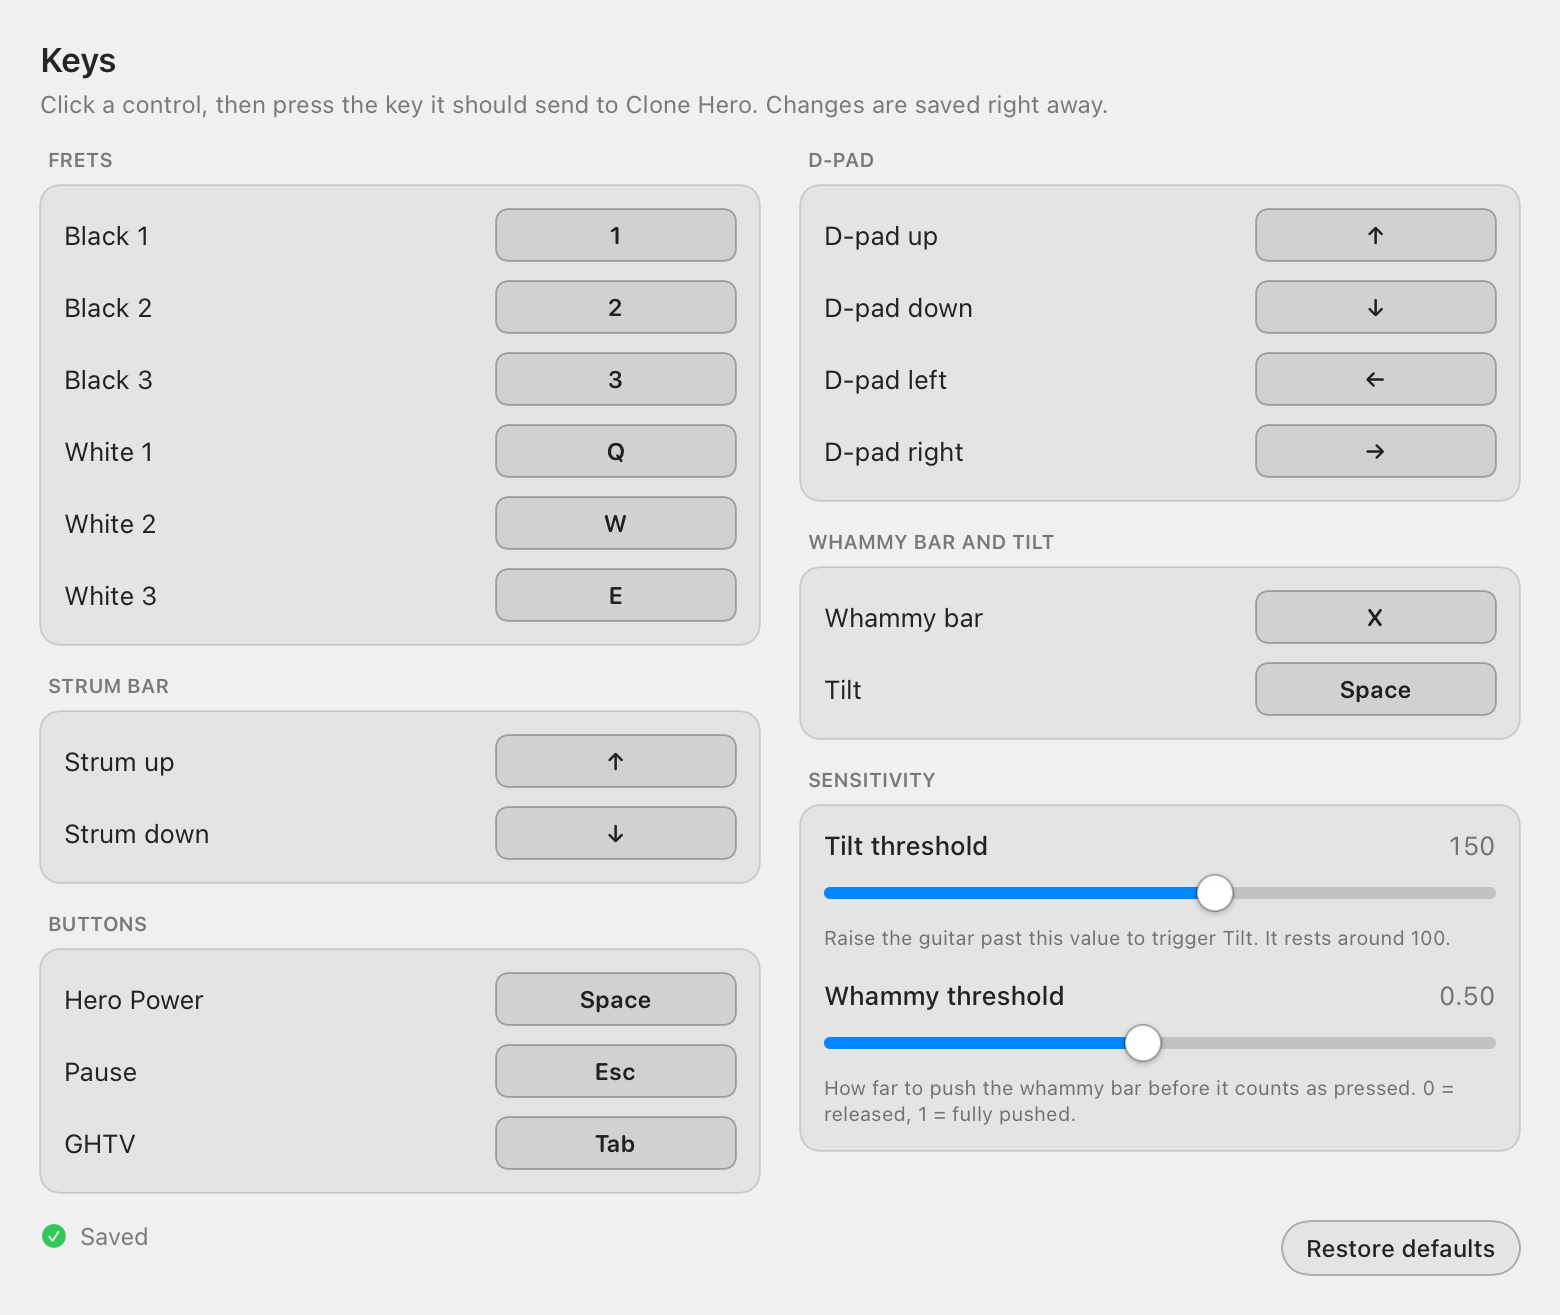
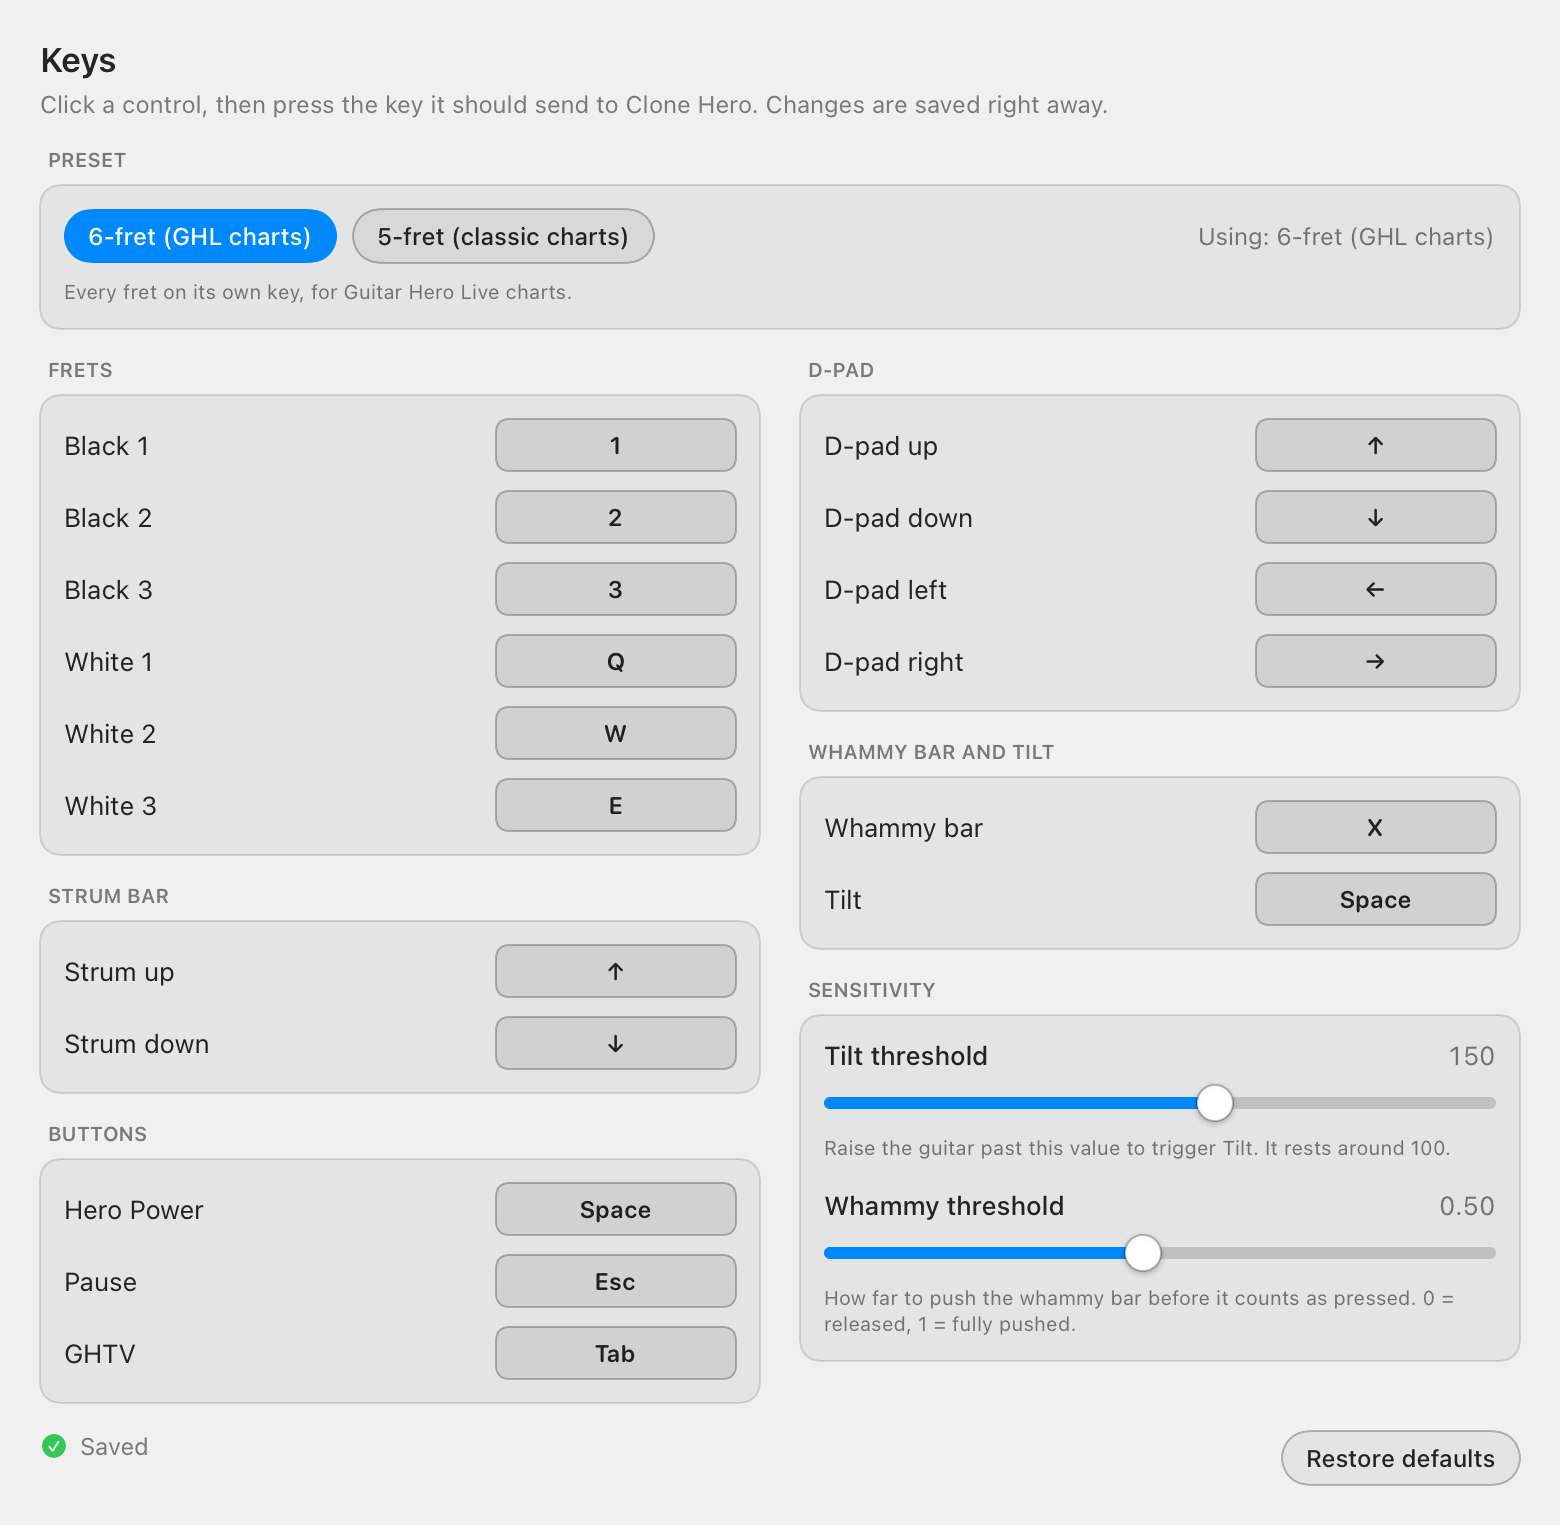
docs: document the 5-fret preset

diff --git a/README.md b/README.md
@@ -74,6 +74,10 @@ Your keymap is stored in `~/Library/Application Support/GHLive/keymap.json`.
 
 In Settings (controls are grouped under Frets, Strum bar, Buttons, D-pad, and Whammy bar and tilt), click a control, then press the key you want. Supported keys: A-Z, 0-9, the arrow keys, Space, Tab, Return, Escape and F1-F12.
 
+### Presets
+
+Settings has a **Preset** row at the top. **6-fret (GHL charts)** is the default above. **5-fret (classic charts)** maps the guitar onto five lanes (see [Playing classic 5-fret charts](#playing-classic-5-fret-charts)). Choosing a preset replaces your keys after a confirmation and keeps your tilt and whammy settings; the row shows "Custom keys" once you change a key yourself.
+
 ## Set up Clone Hero
 
 GHLive makes the guitar look like a keyboard, so the game needs to know which key is which control. Clone Hero supports 6-fret (GHL) guitars, and its controls can be bound to keys. In the game's controller settings, bind each guitar control to the key GHLive sends for it, using the table above (or your own keys from GHLive's Settings). Keep the game as the active window while you play: macOS delivers key presses to the app in front.
@@ -81,6 +85,25 @@ GHLive makes the guitar look like a keyboard, so the game needs to know which ke
 [YARG](https://yarg.in/) works the same way, since it accepts keyboard input: bind the keys in its own controller settings.
 
 The exact menu names differ between game versions, so this guide does not spell them out. The Input Monitor helps here: it shows which key each control is sending right now.
+
+### Playing classic 5-fret charts
+
+Most community charts are 5-fret, and 6-fret (GHL) charts are the smaller catalogue. To play a 5-fret chart with the 6-fret guitar:
+
+1. In GHLive's Settings, choose the **5-fret (classic charts)** preset and confirm.
+2. In the game, bind the keyboard as a regular 5-fret guitar using the keys `1` to `5` for Green, Red, Yellow, Blue and Orange. The strum bar, Hero Power (Star Power), whammy and pause keys are the same as in the table above.
+
+| Lane | Key | Guitar control |
+|---|---|---|
+| Green | `1` | White 1 (bottom row), or Black 1 |
+| Red | `2` | White 2 (bottom row) |
+| Yellow | `3` | White 3 (bottom row) |
+| Blue | `4` | Black 2 (top row) |
+| Orange | `5` | Black 3 (top row) |
+
+Black 1 also sends Green so the first column is comfortable from either row. This layout is a starting point: click any control in Settings to give it another key.
+
+![Settings with the 5-fret preset applied](docs/images/settings-preset-five-fret-light.png)
 
 ## Calibrating tilt and whammy
 
@@ -138,6 +161,7 @@ You are encouraged to compare the contents of your locally built zip with the re
 ghlive run [--dry-run] [--verbose] [--keymap PATH]   wait for the dongle and send key presses
 ghlive sniff                                          print the raw GIP packets (for bug reports)
 ghlive keymap --print-default                         print the default keymap as JSON
+ghlive keymap --print-preset five-fret|six-fret       print a keymap preset as JSON
 ghlive --version
 ```
 

diff --git a/docs/architecture.md b/docs/architecture.md
@@ -14,7 +14,7 @@ GIPProtocol, GuitarInput, USBTransport: no dependencies on the other targets
 |---|---|
 | `GIPProtocol` | GIP framing (varint length), `decodePackets` for bundled transfers, packet builders, `SequenceCounter`, `GipSession` (handshake packets, ACKs, 8 s keep-alive). Pure, no I/O. |
 | `GuitarInput` | `parseGuitarReport` (0x21 layout), `GuitarState`, `Control`, `Thresholds`, `HysteresisDetector`, `ControlDetector`. Pure. |
-| `KeyMapping` | `Keymap` (control to key, thresholds; JSON, validated), `KeyCode` table (Carbon `kVK_*`), `KeymapStore` (`~/Library/Application Support/GHLive/keymap.json`). |
+| `KeyMapping` | `Keymap` (control to key, thresholds; JSON, validated), `KeymapPreset` (6-fret and 5-fret key sets), `KeyCode` table (Carbon `kVK_*`), `KeymapStore` (`~/Library/Application Support/GHLive/keymap.json`). |
 | `KeyboardOutput` | `OutputSink` and `KeyEmitter` protocols, `KeyboardSink` (key diffs, shared keys, `releaseAll`), `CGEventKeyEmitter`, `DryRunKeyEmitter`, `AccessibilityPermission`. |
 | `USBTransport` | `PacketTransport`, `DongleConnecting`, `DongleEventSource` protocols; IOUSBHost `DongleConnection`; IOKit `DongleMonitor`. The only target that touches IOKit. |
 | `GHLiveCLI` | Argument parsing, the `run`, `sniff` and `keymap` commands and the verbose reporter, as a library so it is testable. `ghlive` is a one-line `main.swift` calling `runCLI`. |

diff --git a/CHANGELOG.md b/CHANGELOG.md
@@ -4,6 +4,10 @@ All notable changes to this project are documented here. The format follows [Kee
 
 ## [Unreleased]
 
+### Added
+
+- A "5-fret (classic charts)" keymap preset next to the default 6-fret one, so the guitar can play classic five-lane charts with keys 1-5. Settings shows which preset is active (or "Custom keys"), and `ghlive keymap --print-preset five-fret|six-fret` prints either as JSON.
+
 ### Changed
 
 - On macOS 26 and later the menu, Settings and Input Monitor use Liquid Glass; older systems keep the current look.
